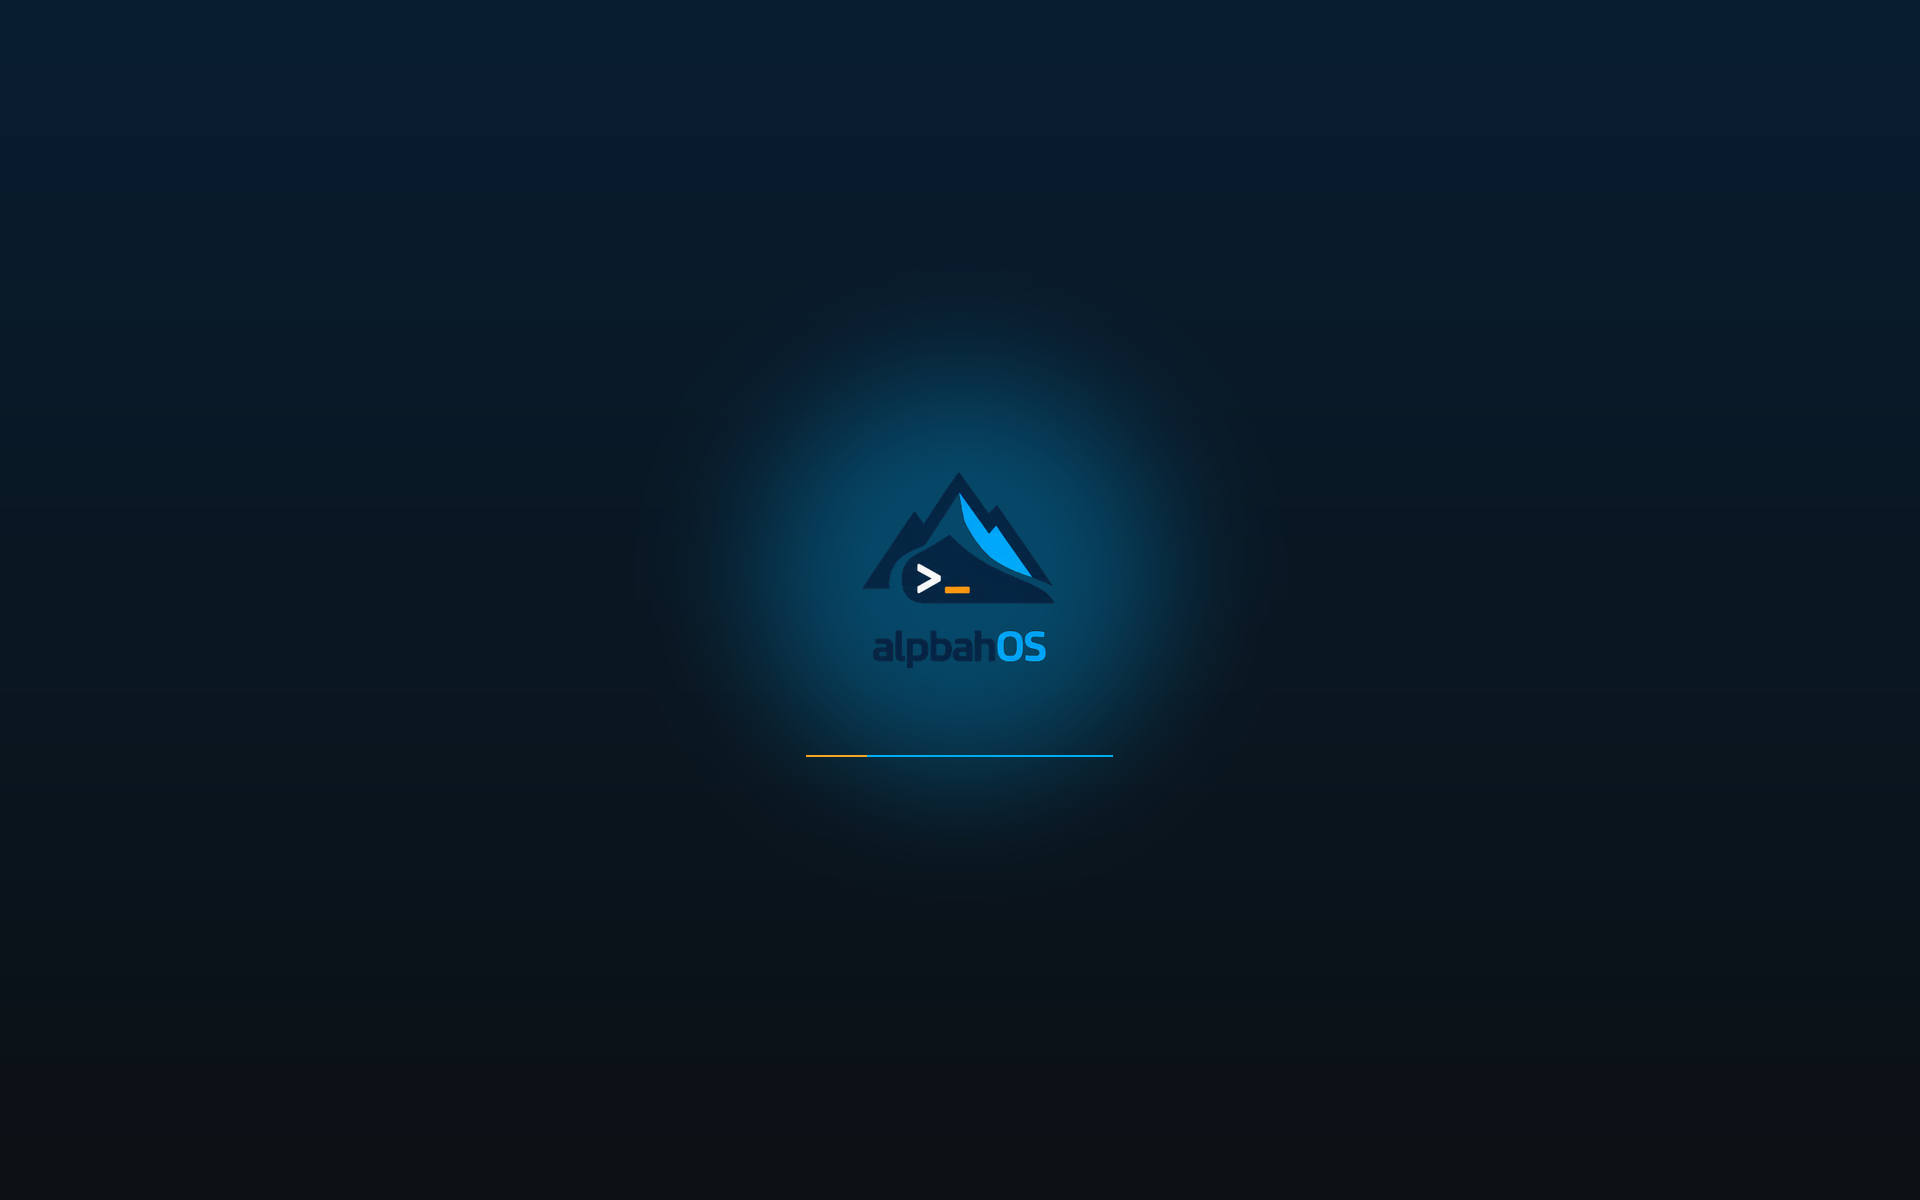
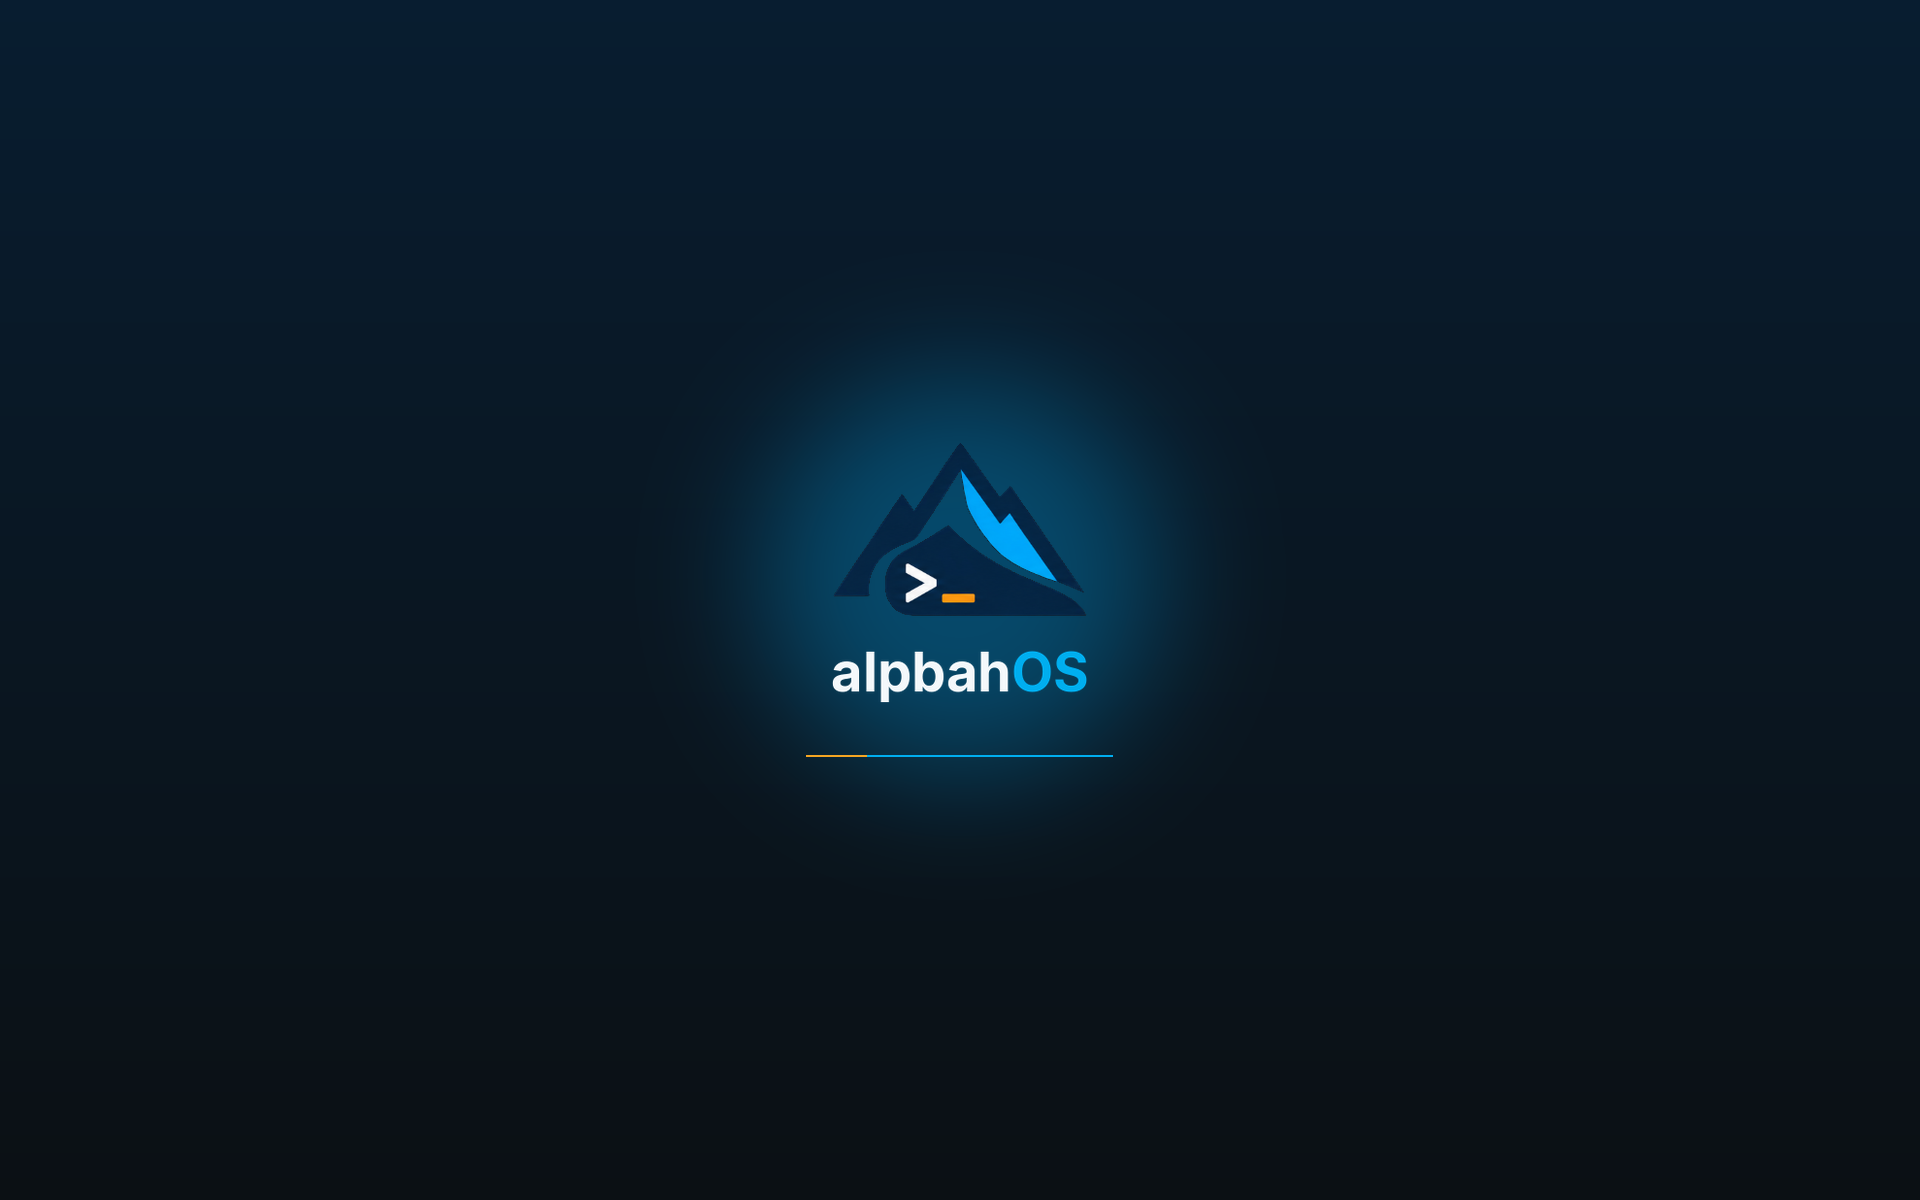
Brand wallpaper with the live wordmark (D155); record alpbahos-wallpaper-r35; round 35 chain
The logo's navy 'alpbah' was hard to read in the middle of the dark wallpaper (round 34 desktop). The generator now
keeps the mark and puts the live wordmark (white 'alpbah', cyan 'OS', Inter Bold) under it; all sizes and the
preview regenerated (--check clean); the SDDM background (same 1920x1080 image) follows. r35-all.sh: full row set
plus B2, S1, R1, FP-GUI and REC2 of the matrix.

Changed region(s): [[0.4375, 0.37, 0.5625, 0.5858]]

diff --git a/branding/alpbahos-brand/tools/build_brand_wallpaper.py b/branding/alpbahos-brand/tools/build_brand_wallpaper.py
@@ -131,6 +131,28 @@ def key_background(logo: Image.Image) -> Image.Image:
     return out
 
 
+WORDMARK = REPO / "branding" / "plymouth-theme" / "alpbahos" / "wordmark.png"
+
+
+def live_wordmark(keyed: Image.Image) -> Image.Image:
+    """D155 (2026-11-11): the mark of the keyed logo with the live wordmark ("alpbah" #f4f8fb, "OS" #00aeef, Inter Bold,
+    rendered by branding/plymouth-theme/tools/build_plymouth_theme.py) under it. The logo's own navy wordmark is
+    unreadable on the dark wallpaper. Mark: rows above the first fully empty row run, trimmed; never enlarged."""
+    alpha = keyed.getchannel("A")
+    rows = [y for y in range(keyed.height) if alpha.crop((0, y, keyed.width, y + 1)).getextrema()[1] > 8]
+    # No empty row between mark and wordmark (e.g. a plain test image): the whole image is the mark.
+    cut = next((rows[i] for i in range(1, len(rows)) if rows[i] - rows[i - 1] > 1), keyed.height)
+    mark = keyed.crop((0, 0, keyed.width, cut))
+    mark = mark.crop(mark.getchannel("A").point(lambda v: 255 if v > 8 else 0).getbbox())
+    word = Image.open(WORDMARK).convert("RGBA")
+    gap = round(mark.height * 0.12)
+    w = max(mark.width, word.width)
+    out = Image.new("RGBA", (w, mark.height + gap + word.height), (0, 0, 0, 0))
+    out.alpha_composite(mark, ((w - mark.width) // 2, 0))
+    out.alpha_composite(word, ((w - word.width) // 2, mark.height + gap))
+    return out
+
+
 def logo_box(size: tuple[int, int], logo: Image.Image) -> tuple[int, int, int, int, int]:
     """(x, y, w, h, gap) — logo+çizgi bloğu dikeyde ortalanmış yerleşim. Hem compose hem test kullanır."""
     width, height = size
@@ -162,7 +184,7 @@ def compose(size: tuple[int, int], colors: dict, logo: Image.Image) -> Image.Ima
     navy = colors["navy"]
     canvas = vertical_gradient(size, lerp(colors["bg-950"], navy, 0.55), colors["bg-950"]).convert("RGBA")
 
-    keyed = key_background(logo)
+    keyed = live_wordmark(key_background(logo))
     logo_x, top, logo_w, logo_h, gap = logo_box(size, keyed)
     scaled = keyed if logo_h == keyed.height else keyed.resize((logo_w, logo_h), Image.LANCZOS)
 

diff --git a/branding/alpbahos-brand/README.md b/branding/alpbahos-brand/README.md
@@ -17,7 +17,8 @@ picked in the wallpaper dialog (D114).
 ## Design
 
 - Background: vertical gradient from a mix of `navy` to `bg-950` (colours read from `profiles/desktop/tokens.json`).
-- Logo: `docs/assets/alpbahOS-logo.png`, height 22 % of the image height, centred horizontally.
+- Logo: the mark of `docs/assets/alpbahOS-logo.png` with the live wordmark (white "alpbah", cyan "OS", D155; from
+  `branding/plymouth-theme/alpbahos/wordmark.png`), height 22 % of the image height, centred horizontally.
   It is scaled with LANCZOS and never enlarged above its native size (296x359).
   The source logo has an opaque flat #141414 box. The generator makes pixels within distance 18 of that
   colour transparent in memory, with a 12-step soft edge. The source file is not changed.
